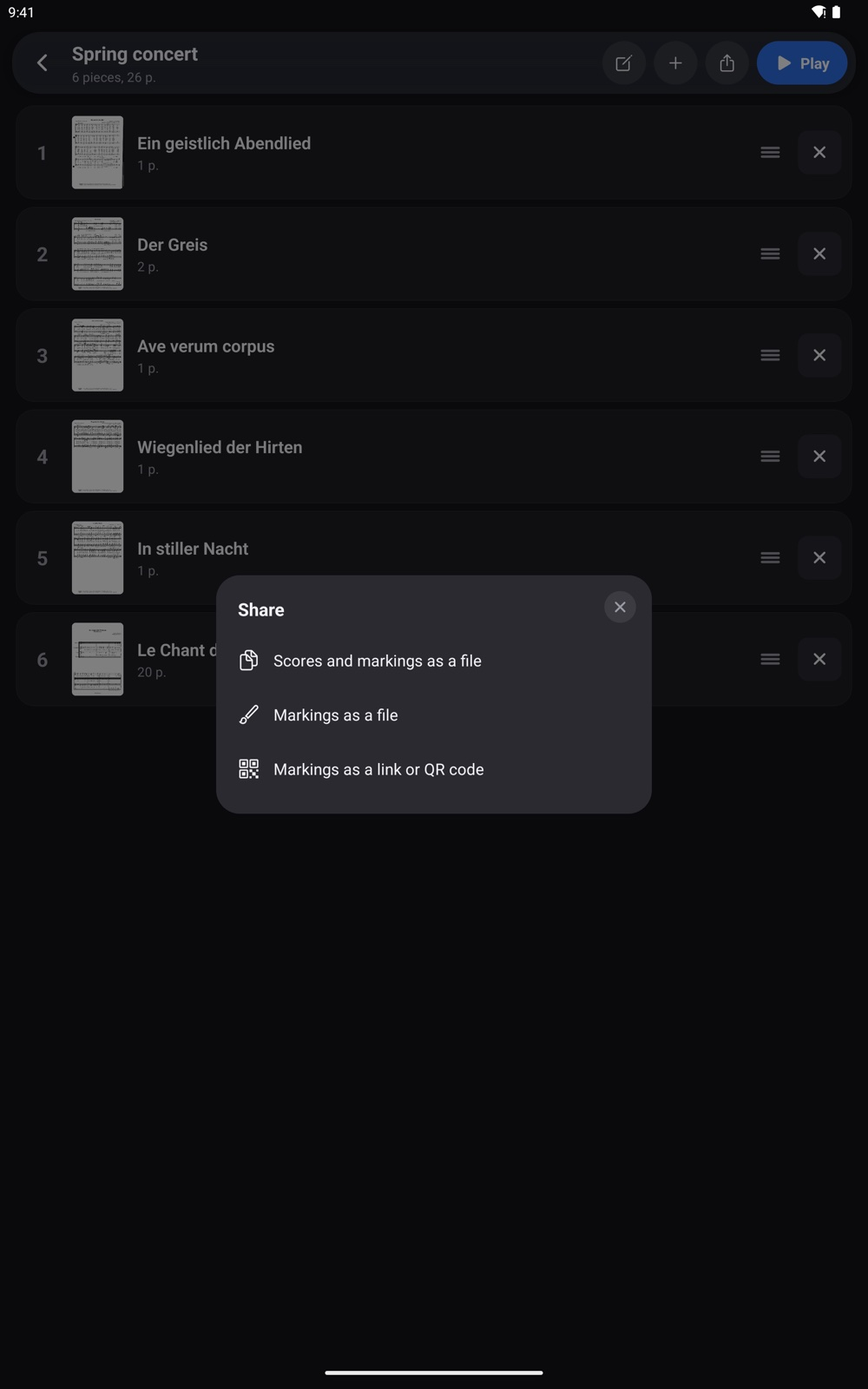
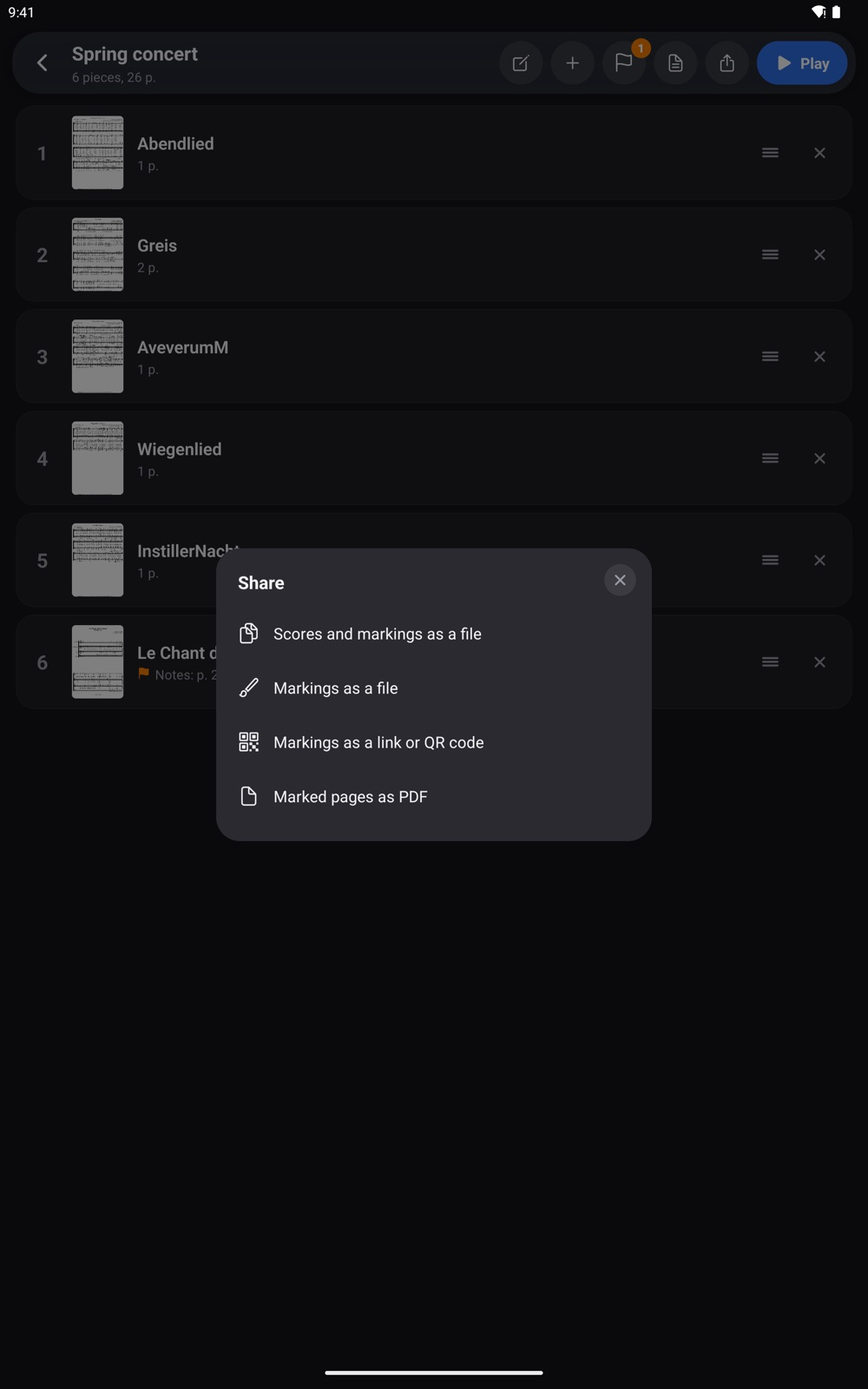
Site from stavora b005dcb

diff --git a/fi/docs/index.html b/fi/docs/index.html
@@ -44,7 +44,7 @@
   .toc ol { margin:0; padding-left:20px; columns:2 220px; }
   .shot { margin:16px 0 24px; }
   .shot img { display:block; max-width:100%; height:auto; border-radius:14px; border:1px solid var(--line); }
-  .shot:has(img[width='700']) img { max-width:min(100%, 360px); }
+  .shot:has(img[width='700']) img, .shot:has(img[width='592']) img { max-width:min(100%, 360px); }
   .shot figcaption { margin-top:8px; font-size:14px; opacity:0.7; }
   .tip { background:var(--panel); border:1px solid var(--line); border-radius:14px; padding:12px 16px; }
   footer { margin-top:48px; padding-top:20px; border-top:1px solid var(--line); }
@@ -72,9 +72,9 @@
   <h2 id="reading">Lukeminen</h2>
   <ul><li><b>Sivun kääntö:</b> napauta sivun oikeaa tai vasenta reunaa tai pyyhkäise sivuttain. Reunojen leveyden voi säätää asetuksissa.</li><li><b>Työkalut:</b> napauta sivun keskeltä. Alareunassa näkyvät kaikki sivut, ja niistä pääsee suoraan haluamalleen sivulle.</li><li><b>Zoomaus:</b> nipistä. Zoomattua sivua vieritetään yhdellä sormella, ja kaksoisnapautus palauttaa koko sivun.</li><li><b>Vaakatasossa</b> tabletti näyttää kaksi sivua rinnakkain. Puhelimessa sivu täyttää leveyden ja kääntö etenee nuottirivi kerrallaan.</li><li><b>Sulkeminen:</b> takaisin-nuoli tai pitkä pyyhkäisy ylös tai alas. Kun avaat nuotin kahden tunnin sisällä uudelleen, se jatkuu samalta sivulta, muuten se alkaa alusta.</li><li><b>Pedaalit:</b> Bluetooth-sivunkääntöpedaalit ja näppäimistöt toimivat ilman asetuksia: nuolinäppäimet, Page Up/Down, välilyönti ja Enter.</li></ul><p>Sovellus muistaa, mihin sivuun jäit, ja näyttö pysyy päällä nuottia luettaessa.</p>
   <h2 id="marking">Merkinnät</h2>
-  <figure class="shot"><img src="../../assets/docs/fi/pen-toolbar.jpg" alt="Kynätilan työkalut: neljä kynän väriä, kolme korostuskynää, teksti, harjoiteltava kohta (lippu), pyyhekumi ja kumoa." width="1000" height="176" loading="lazy"><figcaption>Kynätilan työkalut: neljä kynän väriä, kolme korostuskynää, teksti, harjoiteltava kohta (lippu), pyyhekumi ja kumoa.</figcaption></figure>
-  <p>Kynätila avautuu työkalurivin kynäpainikkeesta tai pitämällä sormea hetken paikallaan sivulla. Valittavana ovat kynä neljällä värillä, korostuskynä, teksti (<b>Aa</b>), pyyhekumi ja kumoa. Sivua voi vaihtaa kynätilassakin. Tila suljetaan painamalla <b>✓</b>.</p><h3>Teksti</h3><p>Valitse <b>Aa</b> ja napauta kohtaa, johon haluat tekstin. Kirjoita teksti suoraan nuottiin. Olemassa olevaa tekstiä muokataan napauttamalla ja siirretään vetämällä.</p><h3>Harjoiteltavat kohdat</h3><p>Valitse kynätilassa lippu ja vedä laatikko harjoiteltavan kohdan ympärille. Laatikon tai sen lipun napautus avaa kuplan. Ilman muistiinpanoa kuplassa on vain <b>Lisää muistiinpano</b>; muistiinpanon kanssa siinä näkyvät merkintäpäivä ja muistiinpano, jota voi muokata, ja lipussa on valkoinen piste. Lukutilassa laatikko, jossa on muistiinpano, avaa kuplan myös sivun reunalta; muuten reunan napautus kääntää sivua. iPadilla Apple Pencil kirjoittaa tekstikenttään käsialalla. Laatikkoon tarttumalla sen voi siirtää ja kulmasta tarttumalla muuttaa sen kokoa. Kirjaston lippupainike näyttää nuotit, joissa on harjoiteltavaa, ja avaa ne suoraan oikealta sivulta. Kun kohta on harjoiteltu, poista laatikko kynätilassa sen kulman ✕-painikkeesta, tai kaikki kerralla lippunäkymän painikkeesta. Lukutilassa ✕ ei näy, joten konsertissa sitä ei napauta vahingossa.</p><h3>Kynällä ilman kynätilaa</h3><p>Aktiivikynällä (Apple Pencil, Tab Pen tms.) voit kirjoittaa suoraan lukutilassa: kynä piirtää ja sormi kääntää sivua. Viimeisen merkinnän kumoamiseen ilmestyy hetkeksi <b>Kumoa</b>-painike. Kynätilassa voit asettaa <b>Vain kynä piirtää</b> -asetuksen, jolloin sormi ei piirrä vahingossa.</p><p class="tip">Merkinnät tallentuvat erikseen, eikä alkuperäistä PDF:ää muuteta.</p>
-  <figure class="shot"><img src="../../assets/docs/fi/practice-note.jpg" alt="Harjoiteltava kohta laatikkona ja lippuna; kuplassa merkintäpäivä ja muistiinpano." width="1000" height="479" loading="lazy"><figcaption>Harjoiteltava kohta laatikkona ja lippuna; kuplassa merkintäpäivä ja muistiinpano.</figcaption></figure>
+  <figure class="shot"><img src="../../assets/docs/fi/pen-toolbar.jpg" alt="Kynätilan työkalut: neljä kynän väriä, kolme korostuskynää, teksti, muistiinpanolaatikko (lippu), pyyhekumi ja kumoa." width="1000" height="176" loading="lazy"><figcaption>Kynätilan työkalut: neljä kynän väriä, kolme korostuskynää, teksti, muistiinpanolaatikko (lippu), pyyhekumi ja kumoa.</figcaption></figure>
+  <p>Kynätila avautuu työkalurivin kynäpainikkeesta tai pitämällä sormea hetken paikallaan sivulla. Valittavana ovat kynä neljällä värillä, korostuskynä, teksti (<b>Aa</b>), pyyhekumi ja kumoa. Sivua voi vaihtaa kynätilassakin. Tila suljetaan painamalla <b>✓</b>.</p><h3>Teksti</h3><p>Valitse <b>Aa</b> ja napauta kohtaa, johon haluat tekstin. Kirjoita teksti suoraan nuottiin. Olemassa olevaa tekstiä muokataan napauttamalla ja siirretään vetämällä.</p><h3>Muistiinpanot</h3><p>Valitse kynätilassa lippu ja vedä laatikko kohdan ympärille. Kupla avautuu heti: lisää muistiinpano, esimerkiksi ”hengitys tähän” tai ”tasaiset kahdeksasosat”. Muistiinpano näkyy nuotissa lipun vieressä. Kun kytket muistiinpanoikkunan kulmasta nastan pois, se näkyy vain lippua napauttamalla. Laatikon tai lipun napautus avaa kuplan uudelleen, ja muistiinpanoa voi lukea ja muokata. Lukutilassa laatikko, jossa on muistiinpano, avaa kuplan myös sivun reunalta; muuten reunan napautus kääntää sivua. iPadilla Apple Pencil kirjoittaa muistiinpanoon käsialalla. Laatikkoon tarttumalla sen voi siirtää ja reunasta tai kulmasta tarttumalla muuttaa sen kokoa.</p><p>Kun kohta jatkuu seuraavalle riville tai sivulle, valitse kuplasta <b>Jatka merkintää</b> ja piirrä seuraava laatikko. Laatikoilla on yhteinen muistiinpano, ja jatko-osissa on lipun sijaan nuoli. Kumoa ja ✕ pitävät kohdan koossa: kun ensimmäisen laatikon poistaa, seuraava saa lipun.</p><p>Kirjaston <b>Muistiinpanot</b>-painike näyttää kappaleet, joissa on muistiinpanoja, ja avaa ne suoraan oikealta sivulta. Kun kohta on harjoiteltu, poista laatikko sen kulman ✕-painikkeesta tai kaikki kerralla painikkeella <b>Poista muistiinpanot</b>.</p><h3>Kynällä ilman kynätilaa</h3><p>Aktiivikynällä (Apple Pencil, Tab Pen tms.) voit kirjoittaa suoraan lukutilassa: kynä piirtää ja sormi kääntää sivua. Viimeisen merkinnän kumoamiseen ilmestyy hetkeksi <b>Kumoa</b>-painike. Kynätilassa voit asettaa <b>Vain kynä piirtää</b> -asetuksen, jolloin sormi ei piirrä vahingossa.</p><p class="tip">Merkinnät tallentuvat erikseen, eikä alkuperäistä PDF:ää muuteta.</p>
+  <figure class="shot"><img src="../../assets/docs/fi/practice-note.jpg" alt="Muistiinpano: kohta laatikkona ja lippuna; kuplassa merkintäpäivä ja muistiinpano." width="1000" height="479" loading="lazy"><figcaption>Muistiinpano: kohta laatikkona ja lippuna; kuplassa merkintäpäivä ja muistiinpano.</figcaption></figure>
   <h2 id="crop">Rajaus ja suoristus</h2>
   <p>Tuonnissa sovellus rajaa tyhjät marginaalit pois ja suoristaa vinoon skannatut sivut. Reunoille kirjoitetut merkinnät säilyvät, ja rei'itykset ja roskat jäävät pois.</p><p>Rajausta voi säätää käsin työkalurivin rajauspainikkeesta. Vedä reunoja: sama rajaus koskee kaikkia sivuja. Vinoa sivua voi kääntää nuolilla 0,1° kerrallaan. <b>Automaattinen</b> tekee rajauksen ja suoristuksen uudelleen ja <b>Palauta</b> näyttää koko sivun. Jos et halua rajausta tuonnissa, voit kytkeä sen pois asetuksista.</p>
   <figure class="shot"><img src="../../assets/docs/fi/crop.jpg" alt="Rajausnäkymä: vedä sinisiä reunoja, suorista nuolilla, tai anna Automaattinen-painikkeen tehdä molemmat." width="700" height="1120" loading="lazy"><figcaption>Rajausnäkymä: vedä sinisiä reunoja, suorista nuolilla, tai anna Automaattinen-painikkeen tehdä molemmat.</figcaption></figure>
@@ -82,8 +82,9 @@
   <p>Avaa kirjastosta <b>Settilistat</b> ja valitse <b>Uusi settilista</b>. Napauta kappaleita siinä järjestyksessä kuin ne lauletaan. Järjestystä voi muuttaa vetämällä rivin oikean reunan kahvasta. Nuotteja saa lisättyä settilistaan myös kirjastosta: yhden pitämällä nuottia painettuna, useita kerralla valinnalla <b>Valitse useita</b>.</p><p>Kun painat <b>Aloita</b>, kappaleet ovat peräkkäin kuin yhtenä vihkona: viimeisen sivun jälkeen avautuu seuraavan kappaleen alku. Kappaleen viimeisellä sivulla nurkassa näkyy seuraava kappale, ja alalaidan kappalenauhasta tai yläpalkin otsikosta pääsee hyppäämään mihin tahansa listan kappaleeseen. Settilistan ulkopuolella otsikosta voi avata minkä tahansa nuotin kirjastosta hakemalla.</p><h3>Asiakirjat</h3><p>Settilistaan voi liittää asiakirjoja, kuten ohjeita. Kun tuot Drive-kansion ZIP-tiedostona, sen Word-, teksti- ja kuvatiedostot tulevat settilistan asiakirjoiksi; asiakirjoja, myös PDF-tiedostoja, voi lisätä settilistan asiakirjapainikkeesta. Word-, PDF-, kuva- ja tekstitiedostot näkyvät sovelluksessa; muut muodot avautuvat toisessa sovelluksessa. Asiakirjat eivät ole kappaleita, joten esitys ohittaa ne, ja ne kulkevat mukana, kun jaat settilistan nuotteineen.</p>
 
   <h2 id="sharing">Jakaminen kuorolle tai bändille</h2>
-  <figure class="shot"><img src="../../assets/docs/fi/share-menu.jpg" alt="Settilistan jako: nuotit ja merkinnät, pelkät merkinnät tai merkinnät linkkinä tai QR-koodina." width="800" height="442" loading="lazy"><figcaption>Settilistan jako: nuotit ja merkinnät, pelkät merkinnät tai merkinnät linkkinä tai QR-koodina.</figcaption></figure>
-  <p>Avaa settilista ja paina <b>Jaa</b>. Valitse, mitä pakettiin tulee:</p><ul><li><b>Nuotit ja merkinnät tiedostona:</b> PDF:t, kappaleiden nimet, rajaukset ja merkintäsi yhdessä ZIP-tiedostossa. Sopii kauden alkuun, esimerkiksi kuoron Driveen.</li><li><b>Merkinnät tiedostona:</b> pieni päivitys niille, joilla nuotit jo ovat, ZIP-tiedostona.</li><li><b>Merkinnät linkkinä tai QR-koodina:</b> pieni päivitys, esimerkiksi illan harjoituskohdat. Valitse, mitkä merkinnät lähtevät: tämän settilistan edellisen jaon jälkeen tehdyt, tänään, tällä viikolla tai kaikki. Näet ennen jakoa, mihin kappaleisiin tulee merkintöjä ja lippuja, ja ne lisätään vastaanottajien aiempiin merkintöihin. Settilistan järjestykseen päivitys ei koske. Sitten <i>Jaa linkki</i> esimerkiksi WhatsAppiin – napautus avaa Stavoran ja tuo merkinnät – tai <i>Näytä QR-koodi</i> harjoituksissa: laulajat skannaavat sen puhelimen kameralla, eikä mitään kulje verkon kautta. Koko kauden merkinnät eivät välttämättä mahdu linkkiin; jaa ne silloin tiedostona.</li></ul><p>Vastaanottaja avaa ZIP-tiedoston <b>Tuo</b>-painikkeella tai valitsemalla <b>Jaa → Stavora</b>. Settilista syntyy samassa järjestyksessä, ja myöhempi paketti päivittää saman listan.</p><p>Jakajan merkinnät tulevat omana kerroksenaan. Seuraava paketti korvaa ne, mutta vastaanottajan omat merkinnät säilyvät. Nuotit tunnistetaan tiedoston sisällöstä, joten merkinnät osuvat kohdalleen, kun kaikilla on sama PDF, esimerkiksi samasta paketista tai Drive-kansiosta.</p><p class="tip">Paketti kulkee vain niitä reittejä, joilla sen itse lähetät. Stavoralla ei ole palvelinta eikä tilejä.</p>
+  <figure class="shot"><img src="../../assets/docs/fi/share-menu.jpg" alt="Settilistan jako: nuotit ja merkinnät, pelkät merkinnät, merkinnät linkkinä tai QR-koodina tai merkityt sivut PDF:nä." width="800" height="556" loading="lazy"><figcaption>Settilistan jako: nuotit ja merkinnät, pelkät merkinnät, merkinnät linkkinä tai QR-koodina tai merkityt sivut PDF:nä.</figcaption></figure>
+  <p>Avaa settilista ja paina <b>Jaa</b>. Valitse, mitä pakettiin tulee:</p><ul><li><b>Nuotit ja merkinnät tiedostona:</b> PDF:t, kappaleiden nimet, rajaukset ja merkintäsi yhdessä ZIP-tiedostossa. Sopii kauden alkuun, esimerkiksi kuoron Driveen.</li><li><b>Merkinnät tiedostona:</b> pieni päivitys niille, joilla nuotit jo ovat, ZIP-tiedostona.</li><li><b>Merkinnät linkkinä tai QR-koodina:</b> pieni päivitys, esimerkiksi illan harjoituskohdat. Valitse, mitkä merkinnät lähtevät: tämän settilistan edellisen jaon jälkeen tehdyt, tänään, tällä viikolla tai kaikki. Näet ennen jakoa, mihin kappaleisiin tulee merkintöjä ja muistiinpanoja, ja ne lisätään vastaanottajien aiempiin merkintöihin. Settilistan järjestykseen päivitys ei koske. Sitten <i>Jaa linkki</i> esimerkiksi WhatsAppiin – napautus avaa Stavoran ja tuo merkinnät – tai <i>Näytä QR-koodi</i> harjoituksissa: laulajat skannaavat sen puhelimen kameralla, eikä mitään kulje verkon kautta. Koko kauden merkinnät eivät välttämättä mahdu linkkiin; jaa ne silloin tiedostona.</li><li><b>Merkityt sivut PDF:nä:</b> vain sivut, joilla on merkintöjä, merkinnät piirrettyinä yhteen PDF-tiedostoon, joka aukeaa millä laitteella tahansa – Stavoraa ei tarvita. Valitse ajanjakso (tänään, tällä viikolla tai kaikki), tulevatko kaikki merkinnät vai <b>Vain muistiinpanot</b>, ja tiedoston nimi. Kahdesti settilistalla oleva kappale tulee mukaan kerran. Yksittäisen nuotin saa jaettua samoin kirjaston valikosta.</li></ul><p>Vastaanottaja avaa ZIP-tiedoston <b>Tuo</b>-painikkeella tai valitsemalla <b>Jaa → Stavora</b>. Settilista syntyy samassa järjestyksessä, ja myöhempi paketti päivittää saman listan.</p><p>Jakajan merkinnät tulevat omana kerroksenaan. Seuraava paketti korvaa ne, mutta vastaanottajan omat merkinnät säilyvät. Nuotit tunnistetaan tiedoston sisällöstä, joten merkinnät osuvat kohdalleen, kun kaikilla on sama PDF, esimerkiksi samasta paketista tai Drive-kansiosta.</p><p class="tip">Paketti kulkee vain niitä reittejä, joilla sen itse lähetät. Stavoralla ei ole palvelinta eikä tilejä.</p>
+  <figure class="shot"><img src="../../assets/docs/fi/share-pdf.jpg" alt="Merkityt sivut PDF:nä: ajanjakso, vain muistiinpanot ja tiedoston nimi." width="592" height="700" loading="lazy"><figcaption>Merkityt sivut PDF:nä: ajanjakso, vain muistiinpanot ja tiedoston nimi.</figcaption></figure>
 
   <h2 id="tools">Sävel ja metronomi</h2>
   <p>Paina nuottinäkymän yläpalkista <b>♪</b>. Paneelissa on kaksi välilehteä:</p><ul><li><b>Sävel:</b> napauta kosketinta, niin sävel soi hetken, tai pidä sitä painettuna, niin sävel soi niin kauan kuin pidät. Oktaavia vaihdetaan −- ja +-painikkeilla.</li><li><b>Metronomi:</b> aseta tempo kiertämällä rengasta sormella (myötäpäivään nopeammaksi; 120 on ylhäällä) tai napauttamalla sitä kohtaa renkaasta, tarkemmin −- ja +-painikkeilla, kirjoittamalla lukemaan tai napauttamalla <b>Napauta</b>-painiketta tahdissa. Valitse iskujen määrä tahdissa. Kun napautat valittua uudelleen, ensimmäistä iskua ei korosteta.</li></ul><p>Jokainen kappale muistaa oman temponsa ja iskunsa: kun avaat metronomin nuotissa, se alkaa kappaleen tempossa, ja settilistassa tikitys vaihtuu seuraavan kappaleen tempoon. Kappale, jolle tempoa ei ole asetettu, aloittaa viimeksi käytetystä.</p><p>Napautus nuottiin sulkee paneelin. Metronomi jatkaa soimista, kunnes pysäytät sen tai suljet nuotin, ja <b>♪</b> näkyy silloin korostettuna.</p><p class="tip">Äänet kuuluvat myös äänettömällä. Stavora ei käytä mikrofonia.</p>
@@ -91,7 +92,7 @@
   <h2 id="library">Kirjasto</h2>
   <p>Kirjastossa voit hakea nuotteja nimellä ja järjestää ne aakkosjärjestykseen tai viimeksi avattujen mukaan. Pikkukuvissa sivu näkyy rajattuna niin kuin se luetaan. Hakukentän vieressä olevasta painikkeesta nuotit näkyvät pikkukuvien sijaan listana. Kun pitkä kirjasto on aakkosjärjestyksessä, oikeassa reunassa on aakkoset sekä pikkukuvissa että listassa: napauta kirjainta tai liu'uta sormea niiden yli.</p><p>Pidä nuottia painettuna, niin voit nimetä sen uudelleen, lisätä sen settilistaan tai poistaa sen. Poistaminen poistaa myös nuotin merkinnät.</p><h3>Useita kerralla</h3><p>Valitse samasta valikosta <b>Valitse useita</b> ja napauta nuotteja. Valitut voi poistaa tai lisätä settilistaan, myös uuteen. Settilistassa jo olevia ei lisätä toiseen kertaan.</p><p>Puhelimessa haku, lippu ja järjestyksen ja näkymän painike ovat näytön alareunassa peukalon ulottuvilla.</p><p>Asetukset (ratas) sisältävät mm. teeman (vaalea, tumma tai laitteen mukaan), kielen, sivun ympäryksen värin, napautuskääntöjen reunat ja kynäasetukset.</p><p><b>Vie PDF merkintöineen</b> (nuottia painettuna) tekee nuotista PDF-tiedoston, jossa merkinnät ovat mukana. Sen voi tulostaa tai lähettää jollekulle, jolla ei ole Stavoraa.</p>
   <h2 id="backup">Varmuuskopio ja uusi laite</h2>
-  <p>Valitse <b>Asetukset → Varmuuskopio → Tee varmuuskopio</b>. Nuotit, merkinnät, settilistat ja asetukset pakataan yhteen ZIP-tiedostoon, jonka voit tallentaa esimerkiksi Tiedostoihin, iCloud Driveen tai Google Driveen.</p><p>Palauta varmuuskopio tuomalla ZIP <b>Tuo</b>-painikkeella. Palautus vain lisää kirjastoon puuttuvat nuotit ja settilistat, eikä se muuta tai poista kirjastossa jo olevaa.</p><p class="tip">iPhonen ja iPadin iCloud-varmuuskopio sisältää Stavoran tiedot automaattisesti, joten ne palautuvat, kun uusi laite otetaan käyttöön varmuuskopiosta. Laitteiden välillä tiedot eivät synkronoidu. Androidin automaattinen varmuuskopio on rajattu pieneen kokoon, joten siellä kannattaa ottaa varmuuskopio itse.</p>
+  <p>Valitse <b>Asetukset → Varmuuskopio → Tee varmuuskopio</b>. Nuotit, merkinnät, settilistat dokumentteineen ja asetukset pakataan yhteen ZIP-tiedostoon, jonka voit tallentaa esimerkiksi Tiedostoihin, iCloud Driveen tai Google Driveen.</p><p>Palauta varmuuskopio tuomalla ZIP <b>Tuo</b>-painikkeella. Palautus vain lisää kirjastoon puuttuvat nuotit ja settilistat, eikä se muuta tai poista kirjastossa jo olevaa.</p><p class="tip">iPhonen ja iPadin iCloud-varmuuskopio sisältää Stavoran tiedot automaattisesti, joten ne palautuvat, kun uusi laite otetaan käyttöön varmuuskopiosta. Laitteiden välillä tiedot eivät synkronoidu. Androidin automaattinen varmuuskopio on rajattu pieneen kokoon, joten siellä kannattaa ottaa varmuuskopio itse.</p>
   <footer><a href="../../fi/">Etusivulle</a></footer>
 </main>
 </body>

diff --git a/docs/index.html b/docs/index.html
@@ -44,7 +44,7 @@
   .toc ol { margin:0; padding-left:20px; columns:2 220px; }
   .shot { margin:16px 0 24px; }
   .shot img { display:block; max-width:100%; height:auto; border-radius:14px; border:1px solid var(--line); }
-  .shot:has(img[width='700']) img { max-width:min(100%, 360px); }
+  .shot:has(img[width='700']) img, .shot:has(img[width='592']) img { max-width:min(100%, 360px); }
   .shot figcaption { margin-top:8px; font-size:14px; opacity:0.7; }
   .tip { background:var(--panel); border:1px solid var(--line); border-radius:14px; padding:12px 16px; }
   footer { margin-top:48px; padding-top:20px; border-top:1px solid var(--line); }
@@ -72,9 +72,9 @@
   <h2 id="reading">Reading</h2>
   <ul><li><b>Turning pages:</b> tap the right or left edge of the page, or swipe sideways. The width of the edges can be adjusted in the settings.</li><li><b>Tools:</b> tap the middle of the page. All the pages show along the bottom, and you can jump straight to any of them.</li><li><b>Zoom:</b> pinch. Scroll a zoomed page with one finger, and double-tap to see the whole page again.</li><li><b>In landscape</b> a tablet shows two pages side by side. On a phone the page fills the width and turns move on one line of music at a time.</li><li><b>Closing:</b> the back arrow, or a long swipe up or down. Opened again within two hours, a score carries on from the same page; later it starts from the beginning.</li><li><b>Pedals:</b> Bluetooth page-turn pedals and keyboards work without setup: arrow keys, Page Up/Down, Space and Enter.</li></ul><p>The app remembers where you left off, and the screen stays on while you read.</p>
   <h2 id="marking">Markings</h2>
-  <figure class="shot"><img src="../assets/docs/en/pen-toolbar.jpg" alt="Pen mode’s tools: four pen colours, three highlighters, text, a passage to practise (the flag), the eraser and undo." width="1000" height="176" loading="lazy"><figcaption>Pen mode’s tools: four pen colours, three highlighters, text, a passage to practise (the flag), the eraser and undo.</figcaption></figure>
-  <p>Pen mode opens from the pen button in the toolbar, or by holding a finger still on the page for a moment. You get a pen in four colours, a highlighter, text (<b>Aa</b>), an eraser and undo. You can change pages in pen mode too. Close it with <b>✓</b>.</p><h3>Text</h3><p>Choose <b>Aa</b> and tap where you want the text. Type straight onto the score. Tap existing text to edit it, and drag it to move it.</p><h3>Passages to practise</h3><p>In pen mode, choose the flag and drag a box around the passage. Tapping the box or its flag opens a bubble. Without a note it offers just <b>Add a note</b>; with one it shows the day the box was marked and the note, to edit, and the flag shows a white dot. While reading, a box with a note opens its bubble at the page's edge too; elsewhere a tap at the edge turns the page. On an iPad the Apple Pencil writes into the note by hand. Grab a box to move it, or by a corner to resize it. The library's flag button shows the scores with something to practise and opens each at the right page. Once practised, remove a box with the ✕ in its corner in pen mode, or clear them all at once from the flag view. The ✕ does not show while reading, so it is not tapped by accident in a concert.</p><h3>With a stylus, no pen mode needed</h3><p>With an active stylus (Apple Pencil, Tab Pen and the like) you can write straight onto the page while reading: the stylus draws and a finger turns the page. An <b>Undo</b> button appears for a moment to take back the last marking. In pen mode you can set <b>Only the stylus draws</b>, so a finger never draws by accident.</p><p class="tip">Markings are saved separately, and the original PDF is never changed.</p>
-  <figure class="shot"><img src="../assets/docs/en/practice-note.jpg" alt="A passage to practise as a box and a flag; the bubble shows the day it was marked and its note." width="1000" height="479" loading="lazy"><figcaption>A passage to practise as a box and a flag; the bubble shows the day it was marked and its note.</figcaption></figure>
+  <figure class="shot"><img src="../assets/docs/en/pen-toolbar.jpg" alt="Pen mode’s tools: four pen colours, three highlighters, text, a note box (the flag), the eraser and undo." width="1000" height="176" loading="lazy"><figcaption>Pen mode’s tools: four pen colours, three highlighters, text, a note box (the flag), the eraser and undo.</figcaption></figure>
+  <p>Pen mode opens from the pen button in the toolbar, or by holding a finger still on the page for a moment. You get a pen in four colours, a highlighter, text (<b>Aa</b>), an eraser and undo. You can change pages in pen mode too. Close it with <b>✓</b>.</p><h3>Text</h3><p>Choose <b>Aa</b> and tap where you want the text. Type straight onto the score. Tap existing text to edit it, and drag it to move it.</p><h3>Notes</h3><p>In pen mode, choose the flag and drag a box around the passage. Its bubble opens straight away: add a note, such as “breathe here” or “even quavers”. The note shows on the page beside the flag; turn off the pin in the note window’s corner and it shows only when the flag is tapped. Tapping a box or its flag opens the bubble again, to read or edit the note. While reading, a box with a note opens its bubble at the page’s edge too; elsewhere a tap at the edge turns the page. On an iPad the Apple Pencil writes into the note by hand. Grab a box to move it, or by an edge or a corner to resize it.</p><p>When a passage carries on to the next line or page, choose <b>Continue the marking</b> in the bubble and draw the next box. The boxes share one note, and the later ones show an arrow instead of the flag. Undo and the ✕ keep the passage together: remove its first box and the next one takes the flag.</p><p>The library’s <b>Notes</b> button lists the scores with notes and opens each at the right page. Once a passage is practised, remove its box with the ✕ in the corner, or all notes at once with <b>Clear notes</b>.</p><h3>With a stylus, no pen mode needed</h3><p>With an active stylus (Apple Pencil, Tab Pen and the like) you can write straight onto the page while reading: the stylus draws and a finger turns the page. An <b>Undo</b> button appears for a moment to take back the last marking. In pen mode you can set <b>Only the stylus draws</b>, so a finger never draws by accident.</p><p class="tip">Markings are saved separately, and the original PDF is never changed.</p>
+  <figure class="shot"><img src="../assets/docs/en/practice-note.jpg" alt="A note: the passage as a box and a flag; the bubble shows the day it was marked and the note." width="1000" height="479" loading="lazy"><figcaption>A note: the passage as a box and a flag; the bubble shows the day it was marked and the note.</figcaption></figure>
   <h2 id="crop">Crop and straighten</h2>
   <p>When importing, the app crops away the empty margins and straightens pages that were scanned crooked. Notes written in the margins are kept, and hole punches and specks are left out.</p><p>Adjust the crop by hand from the crop button in the toolbar. Drag the edges: the same crop applies to all pages. Turn a crooked page with the arrows, 0.1° at a time. <b>Automatic</b> redoes the crop and straightening, and <b>Reset</b> shows the whole page. If you don't want the crop on import, you can turn it off in the settings.</p>
   <figure class="shot"><img src="../assets/docs/en/crop.jpg" alt="Cropping: drag the blue edges, straighten with the arrows, or let Automatic do both." width="700" height="1120" loading="lazy"><figcaption>Cropping: drag the blue edges, straighten with the arrows, or let Automatic do both.</figcaption></figure>
@@ -82,8 +82,9 @@
   <p>Open <b>Setlists</b> in the library and choose <b>New setlist</b>. Tap the pieces in the order they are sung. Change the order by dragging the handle on the right of a row. You can also add scores to a setlist from the library: one by pressing and holding it, several at once with <b>Select several</b>.</p><p>When you tap <b>Play</b>, the pieces run on like one booklet: after the last page comes the start of the next piece. On a piece's last page the corner shows what comes next, and the strip at the bottom or the title in the top bar lets you jump to any piece in it. Outside a setlist the title opens any score in the library, with a search.</p><h3>Documents</h3><p>A setlist can keep documents such as instructions. When you import a Drive folder as a ZIP, its Word, text and picture files become the setlist’s documents; documents, PDFs too, can also be added from the setlist’s documents button. Word, PDF, picture and text files show in the app; other formats open in another app. Documents are not pieces, so playing the setlist skips them, and they go along when you share the setlist with its scores.</p>
 
   <h2 id="sharing">Sharing with a choir or band</h2>
-  <figure class="shot"><img src="../assets/docs/en/share-menu.jpg" alt="Sharing a setlist: scores and markings, markings only, or markings as a link or a QR code." width="800" height="442" loading="lazy"><figcaption>Sharing a setlist: scores and markings, markings only, or markings as a link or a QR code.</figcaption></figure>
-  <p>Open a setlist and tap <b>Share</b>. Choose what goes in the package:</p><ul><li><b>Scores and markings as a file:</b> the PDFs, the pieces' titles, crops and your markings in one ZIP file. For the start of a season, for example in the choir's Drive.</li><li><b>Markings as a file:</b> a small update for those who have the scores already, as a ZIP file.</li><li><b>Markings as a link or QR code:</b> a small update, this evening’s passages for example. Choose which markings go: those since this setlist was last shared, today’s, this week’s or all. Before sharing you see which pieces get markings and flags, and they are added to the recipients’ earlier markings. The setlist’s running order stays as it is. Then <i>Share the link</i>, in WhatsApp say – tapping it opens Stavora and brings the markings in – or <i>Show the QR code</i> at the rehearsal: the singers scan it with their phone cameras, and nothing goes over a network. A season’s markings may not fit a link; share them as a file then.</li></ul><p>The others open the ZIP file with <b>Import</b> or <b>Share → Stavora</b>. The setlist appears in the same order, and a later package updates the same list.</p><p>Your markings come in as a layer of their own. The next package replaces them, and everyone's own markings stay. Scores are recognised by the file's contents, so the markings land in place when everyone has the same PDF, for example from the same package or Drive folder.</p><p class="tip">The package goes only where you send it. Stavora has no server and no accounts.</p>
+  <figure class="shot"><img src="../assets/docs/en/share-menu.jpg" alt="Sharing a setlist: scores and markings, markings only, markings as a link or a QR code, or the marked pages as PDF." width="800" height="556" loading="lazy"><figcaption>Sharing a setlist: scores and markings, markings only, markings as a link or a QR code, or the marked pages as PDF.</figcaption></figure>
+  <p>Open a setlist and tap <b>Share</b>. Choose what goes in the package:</p><ul><li><b>Scores and markings as a file:</b> the PDFs, the pieces' titles, crops and your markings in one ZIP file. For the start of a season, for example in the choir's Drive.</li><li><b>Markings as a file:</b> a small update for those who have the scores already, as a ZIP file.</li><li><b>Markings as a link or QR code:</b> a small update, this evening’s passages for example. Choose which markings go: those since this setlist was last shared, today’s, this week’s or all. Before sharing you see which pieces get markings and notes, and they are added to the recipients’ earlier markings. The setlist’s running order stays as it is. Then <i>Share the link</i>, in WhatsApp say – tapping it opens Stavora and brings the markings in – or <i>Show the QR code</i> at the rehearsal: the singers scan it with their phone cameras, and nothing goes over a network. A season’s markings may not fit a link; share them as a file then.</li><li><b>Marked pages as PDF:</b> only the pages with markings, the markings drawn in, as one PDF that opens on any device – no Stavora needed. Choose the period (today, this week or all), whether every marking goes or <b>Notes only</b>, and the file’s name. A piece that is twice in the setlist comes once. A single score shares the same from its menu in the library.</li></ul><p>The others open the ZIP file with <b>Import</b> or <b>Share → Stavora</b>. The setlist appears in the same order, and a later package updates the same list.</p><p>Your markings come in as a layer of their own. The next package replaces them, and everyone's own markings stay. Scores are recognised by the file's contents, so the markings land in place when everyone has the same PDF, for example from the same package or Drive folder.</p><p class="tip">The package goes only where you send it. Stavora has no server and no accounts.</p>
+  <figure class="shot"><img src="../assets/docs/en/share-pdf.jpg" alt="Marked pages as PDF: the period, notes only, and the file’s name." width="592" height="700" loading="lazy"><figcaption>Marked pages as PDF: the period, notes only, and the file’s name.</figcaption></figure>
 
   <h2 id="tools">Pitch and metronome</h2>
   <p>Tap <b>♪</b> in the score’s top bar. The panel has two tabs:</p><ul><li><b>Pitch:</b> tap a key and the note sounds for a moment, or hold it and the note sounds for as long as you hold. Change the octave with − and +.</li><li><b>Metronome:</b> set the tempo by turning the ring with a finger (clockwise is faster; 120 is at the top) or by tapping a place on it, a beat at a time with − and +, by typing it into the number, or by tapping <b>Tap</b> in time. Choose the beats in a bar; tap the chosen one again and no beat is accented.</li></ul><p>Each piece remembers its own tempo and beats: the metronome opens on a score in its tempo, and in a setlist the ticking changes to the next piece's tempo. A piece with no tempo set yet starts from the last one used.</p><p>A tap on the score closes the panel. The metronome keeps ticking until you stop it or close the score, and <b>♪</b> stays lit meanwhile.</p><p class="tip">The sounds play with the silent switch on too. Stavora does not use the microphone.</p>
@@ -91,7 +92,7 @@
   <h2 id="library">Library</h2>
   <p>In the library you can search scores by name and sort them alphabetically or by when they were last opened. Thumbnails show the page cropped as it is read. The button next to the search field shows the scores as a list instead of thumbnails. A long library in A–Z order has the alphabet down its right edge, in the thumbnails and the list alike: tap a letter or slide a finger over them.</p><p>Press and hold a score to rename it, add it to a setlist or delete it. Deleting a score deletes its markings too.</p><h3>Several at once</h3><p>Choose <b>Select several</b> from the same menu and tap the scores. The selected ones can be deleted or added to a setlist, a new one too. Scores already in the setlist are not added twice.</p><p>On a phone the search, the flag and the button for the order and the view are at the bottom of the screen, in reach of the thumb.</p><p>The settings (the gear) include the theme (light, dark or as the device), the language, the colour around the page, the tap-to-turn edges and the pen options.</p><p><b>Export PDF with markings</b> (press and hold a score) makes a PDF of the score with your markings in it, to print or to send to someone without Stavora.</p>
   <h2 id="backup">Backup and a new device</h2>
-  <p>Choose <b>Settings → Backup → Make a backup</b>. Scores, markings, setlists and settings are packed into one ZIP file, which you can save to Files, iCloud Drive or Google Drive, for example.</p><p>To restore, import the ZIP with <b>Import</b>. A restore only adds the scores and setlists the library is missing; nothing already in the library is changed or deleted.</p><p class="tip">An iCloud backup of an iPhone or iPad includes Stavora's data automatically, so it comes back when you set up a new device from that backup. The data does not sync between devices. Android's automatic backup is limited to a small size, so make a backup yourself there.</p>
+  <p>Choose <b>Settings → Backup → Make a backup</b>. Scores, markings, setlists with their documents, and settings are packed into one ZIP file, which you can save to Files, iCloud Drive or Google Drive, for example.</p><p>To restore, import the ZIP with <b>Import</b>. A restore only adds the scores and setlists the library is missing; nothing already in the library is changed or deleted.</p><p class="tip">An iCloud backup of an iPhone or iPad includes Stavora's data automatically, so it comes back when you set up a new device from that backup. The data does not sync between devices. Android's automatic backup is limited to a small size, so make a backup yourself there.</p>
   <footer><a href="../">Back to the home page</a></footer>
 </main>
 </body>

diff --git a/fi/index.html b/fi/index.html
@@ -107,6 +107,18 @@
   
   .tablet img { display: block; width: 100%; height: auto; border-radius: 4px; }
   .hero .tablet { max-width: 440px; justify-self: center; }
+  
+  .hero-art { position: relative; width: 100%; max-width: 470px; justify-self: center; }
+  .hero-art .tablet { width: 82%; margin-left: auto; }
+  .phone { position: absolute; left: 0; bottom: 2%; width: 38%; background: #05070d; border-radius: 30px; padding: 7px; transform: rotate(-6deg); box-shadow: 0 30px 60px -20px rgba(0, 0, 0, 0.9), inset 0 0 0 1px rgba(255, 255, 255, 0.1); }
+  .phone img { display: block; width: 100%; height: auto; border-radius: 24px; }
+  
+  @media (max-width: 860px) {
+    .hero-art { max-width: 380px; }
+    .hero-art .tablet { width: 68%; margin: 0 0 0 10%; padding: 8px; border-radius: 20px; }
+    .phone { left: auto; right: 4%; bottom: auto; top: 16%; width: 29%; padding: 5px; border-radius: 22px; transform: rotate(5deg); }
+    .phone img { border-radius: 17px; }
+  }
   .tablet.wide { max-width: 980px; margin: 0 auto; }
 
   
@@ -183,7 +195,10 @@
           <span class="soon">Tulossa iPadille ja Android-tableteille, toimii myös puhelimissa</span>
         </div>
       </div>
-      <div class="tablet"><img src="../assets/screens/pen.jpg" alt="Kynätila: värit, korostuskynät, teksti, pyyhekumi ja kumoa" width="1000" height="1600"></div>
+      <div class="hero-art">
+        <div class="tablet"><img src="../assets/screens/hero.jpg" alt="Nuottisivu, jossa korostus, kynämerkintöjä ja rajatun kohdan muistiinpano" width="1000" height="1600"></div>
+        <div class="phone"><img src="../assets/screens/hero-phone.jpg" alt="Metronomi puhelimessa" width="360" height="800"></div>
+      </div>
     </div>
   </section>
 
@@ -202,11 +217,11 @@
         </div>
         <div class="feature">
           <div class="ico"><svg width="24" height="24" viewBox="0 0 24 24" fill="none" stroke="currentColor" stroke-width="2" stroke-linecap="round" stroke-linejoin="round"><path d="M12 3v12M7 8l5-5 5 5M5 13v6a2 2 0 0 0 2 2h10a2 2 0 0 0 2-2v-6"/></svg></div>
-          <h3>Jaa kuorolle tai bändille</h3><p>Settilista, nuotit ja merkinnät yhdessä paketissa, päivitykset pelkkinä merkintöinä. Jokaisen omat merkinnät säilyvät.</p>
+          <h3>Jaa kuorolle tai bändille</h3><p>Settilista, nuotit ja merkinnät yhdessä paketissa, päivitykset pelkkinä merkintöinä tai merkityt sivut PDF:nä, jonka kuka tahansa voi avata. Jokaisen omat merkinnät säilyvät.</p>
         </div>
       </div>
       <ul class="minor">
-        <li><b>Harjoiteltavat kohdat</b> Merkitse lipulla kohdat, joita pitää treenata. Kirjasto näyttää ne yhdellä napautuksella ja avaa suoraan oikean sivun.</li>
+        <li><b>Muistiinpanot nuottiin</b> Rajaa kohta laatikolla ja kirjoita muistiinpano viereen, tarvittaessa rivin- tai sivunvaihdon yli. Kirjasto näyttää kappaleet, joissa on muistiinpanoja, ja avaa suoraan oikean sivun.</li>
         <li><b>Merkinnät kynällä</b> Kirjoita suoraan nuottiin: neljä väriä, korostuskynä, tekstimerkinnät, pyyhekumi ja kumoa. Aktiivikynällä kirjoitus alkaa heti, sormella käännät sivua. Alkuperäistä PDF:ää ei muuteta.</li>
         <li><b>Sävel ja metronomi</b> Aloitussävel koskettimilta ja metronomi, jonka tempo asetetaan kiertämällä tai napauttamalla, nuotin päällä kelluvassa paneelissa. Jokainen kappale muistaa oman temponsa, ja äänet kuuluvat myös äänettömällä.</li>
         <li><b>Sivunkääntöpedaalit</b> Bluetooth-pedaalit ja näppäimistöt kääntävät sivua: nuolinäppäimet, Page Up/Down, välilyönti ja Enter.</li>
@@ -224,11 +239,11 @@
       <p class="intro">Kuoronjohtaja merkitsee harjoiteltavat kohdat ja jakaa settilistan merkintöineen. Jokainen saa ne omaan nuottiinsa, ja omat merkinnät pysyvät omina.</p>
       <div class="showcase">
         <figure>
-          <div class="tablet"><img src="../assets/screens/practice.jpg" alt="Harjoiteltava kohta merkittynä oranssilla laatikolla ja lipulla, kuplassa muistiinpano" width="1000" height="1600" loading="lazy"></div>
-          <figcaption><b>Harjoiteltavat kohdat.</b> Lipulla merkitty kohta löytyy kirjastosta yhdellä napautuksella, ja sen saa pois, kun se on harjoiteltu.</figcaption>
+          <div class="tablet"><img src="../assets/screens/practice.jpg" alt="Kohta rajattuna oranssilla laatikolla ja lipulla, kuplassa muistiinpano" width="1000" height="1600" loading="lazy"></div>
+          <figcaption><b>Harjoiteltavat kohdat.</b> Kohta, jossa on muistiinpano, löytyy kirjastosta yhdellä napautuksella, ja sen saa pois, kun se on harjoiteltu.</figcaption>
         </figure>
         <figure>
-          <div class="tablet"><img src="../assets/screens/share.jpg" alt="Settilistan jako: nuotit ja merkinnät tai vain merkinnät" width="1000" height="1600" loading="lazy"></div>
+          <div class="tablet"><img src="../assets/screens/share.jpg" alt="Settilistan jako: nuotit ja merkinnät, pelkät merkinnät, linkki tai QR-koodi tai merkityt sivut PDF:nä" width="1000" height="1600" loading="lazy"></div>
           <figcaption><b>Jaa kuorolle tai bändille.</b> Koko paketti kauden alkuun vaikka Driveen, viikon päivitykset WhatsAppiin. Ei tiliä eikä palvelinta.</figcaption>
         </figure>
         <figure>

diff --git a/index.html b/index.html
@@ -108,6 +108,18 @@
   
   .tablet img { display: block; width: 100%; height: auto; border-radius: 4px; }
   .hero .tablet { max-width: 440px; justify-self: center; }
+  
+  .hero-art { position: relative; width: 100%; max-width: 470px; justify-self: center; }
+  .hero-art .tablet { width: 82%; margin-left: auto; }
+  .phone { position: absolute; left: 0; bottom: 2%; width: 38%; background: #05070d; border-radius: 30px; padding: 7px; transform: rotate(-6deg); box-shadow: 0 30px 60px -20px rgba(0, 0, 0, 0.9), inset 0 0 0 1px rgba(255, 255, 255, 0.1); }
+  .phone img { display: block; width: 100%; height: auto; border-radius: 24px; }
+  
+  @media (max-width: 860px) {
+    .hero-art { max-width: 380px; }
+    .hero-art .tablet { width: 68%; margin: 0 0 0 10%; padding: 8px; border-radius: 20px; }
+    .phone { left: auto; right: 4%; bottom: auto; top: 16%; width: 29%; padding: 5px; border-radius: 22px; transform: rotate(5deg); }
+    .phone img { border-radius: 17px; }
+  }
   .tablet.wide { max-width: 980px; margin: 0 auto; }
 
   
@@ -184,7 +196,10 @@
           <span class="soon">Coming to iPad and Android tablets, works on phones too</span>
         </div>
       </div>
-      <div class="tablet"><img src="./assets/screens/pen.jpg" alt="Pen mode: colours, highlighters, text, eraser and undo" width="1000" height="1600"></div>
+      <div class="hero-art">
+        <div class="tablet"><img src="./assets/screens/hero.jpg" alt="A score page with a highlight, pen markings and a note above a boxed passage" width="1000" height="1600"></div>
+        <div class="phone"><img src="./assets/screens/hero-phone.jpg" alt="The metronome on a phone" width="360" height="800"></div>
+      </div>
     </div>
   </section>
 
@@ -203,11 +218,11 @@
         </div>
         <div class="feature">
           <div class="ico"><svg width="24" height="24" viewBox="0 0 24 24" fill="none" stroke="currentColor" stroke-width="2" stroke-linecap="round" stroke-linejoin="round"><path d="M12 3v12M7 8l5-5 5 5M5 13v6a2 2 0 0 0 2 2h10a2 2 0 0 0 2-2v-6"/></svg></div>
-          <h3>Share with the choir or band</h3><p>The setlist, scores and markings in one package, and updates as markings only. Everyone’s own markings stay.</p>
+          <h3>Share with the choir or band</h3><p>The setlist, scores and markings in one package, updates as markings only, or the marked pages as a PDF anyone can open. Everyone’s own markings stay.</p>
         </div>
       </div>
       <ul class="minor">
-        <li><b>Passages to practise</b> Mark with the flag what needs work. The library lists those scores with one tap and opens each at the right page.</li>
+        <li><b>Notes on the score</b> Box a passage and write a note beside it, over a line break or a page turn too. The library lists the scores with notes and opens each at the right page.</li>
         <li><b>Pen markings</b> Write straight onto the score: four colours, a highlighter, text notes, an eraser and undo. With an active stylus you just start writing; your finger turns the page. The original PDF is never changed.</li>
         <li><b>Pitch and metronome</b> The starting note from a keyboard and a metronome set by turning a wheel or by tapping, floating over the score. Each piece keeps its own tempo, and the sounds play with the silent switch on too.</li>
         <li><b>Page-turn pedals</b> Bluetooth pedals and keyboards turn pages: arrow keys, Page Up/Down, Space and Enter.</li>
@@ -225,11 +240,11 @@
       <p class="intro">The conductor marks the passages to practise and shares the setlist with the markings. Everyone gets them in their own scores, and their own markings stay their own.</p>
       <div class="showcase">
         <figure>
-          <div class="tablet"><img src="./assets/screens/practice.jpg" alt="A passage to practise marked with an orange box and a flag, its note in a bubble" width="1000" height="1600" loading="lazy"></div>
-          <figcaption><b>Passages to practise.</b> A passage marked with the flag is a tap away in the library, and gone again once practised.</figcaption>
+          <div class="tablet"><img src="./assets/screens/practice.jpg" alt="A passage boxed in orange with a flag, its note in a bubble" width="1000" height="1600" loading="lazy"></div>
+          <figcaption><b>Passages to practise.</b> A passage with a note is a tap away in the library, and gone again once practised.</figcaption>
         </figure>
         <figure>
-          <div class="tablet"><img src="./assets/screens/share.jpg" alt="Sharing a setlist: scores and markings, or markings only" width="1000" height="1600" loading="lazy"></div>
+          <div class="tablet"><img src="./assets/screens/share.jpg" alt="Sharing a setlist: scores and markings, markings only, a link or QR code, or the marked pages as PDF" width="1000" height="1600" loading="lazy"></div>
           <figcaption><b>Share with the choir or band.</b> The whole package for the start of the season in Drive, the week’s updates in WhatsApp. No account, no server.</figcaption>
         </figure>
         <figure>
